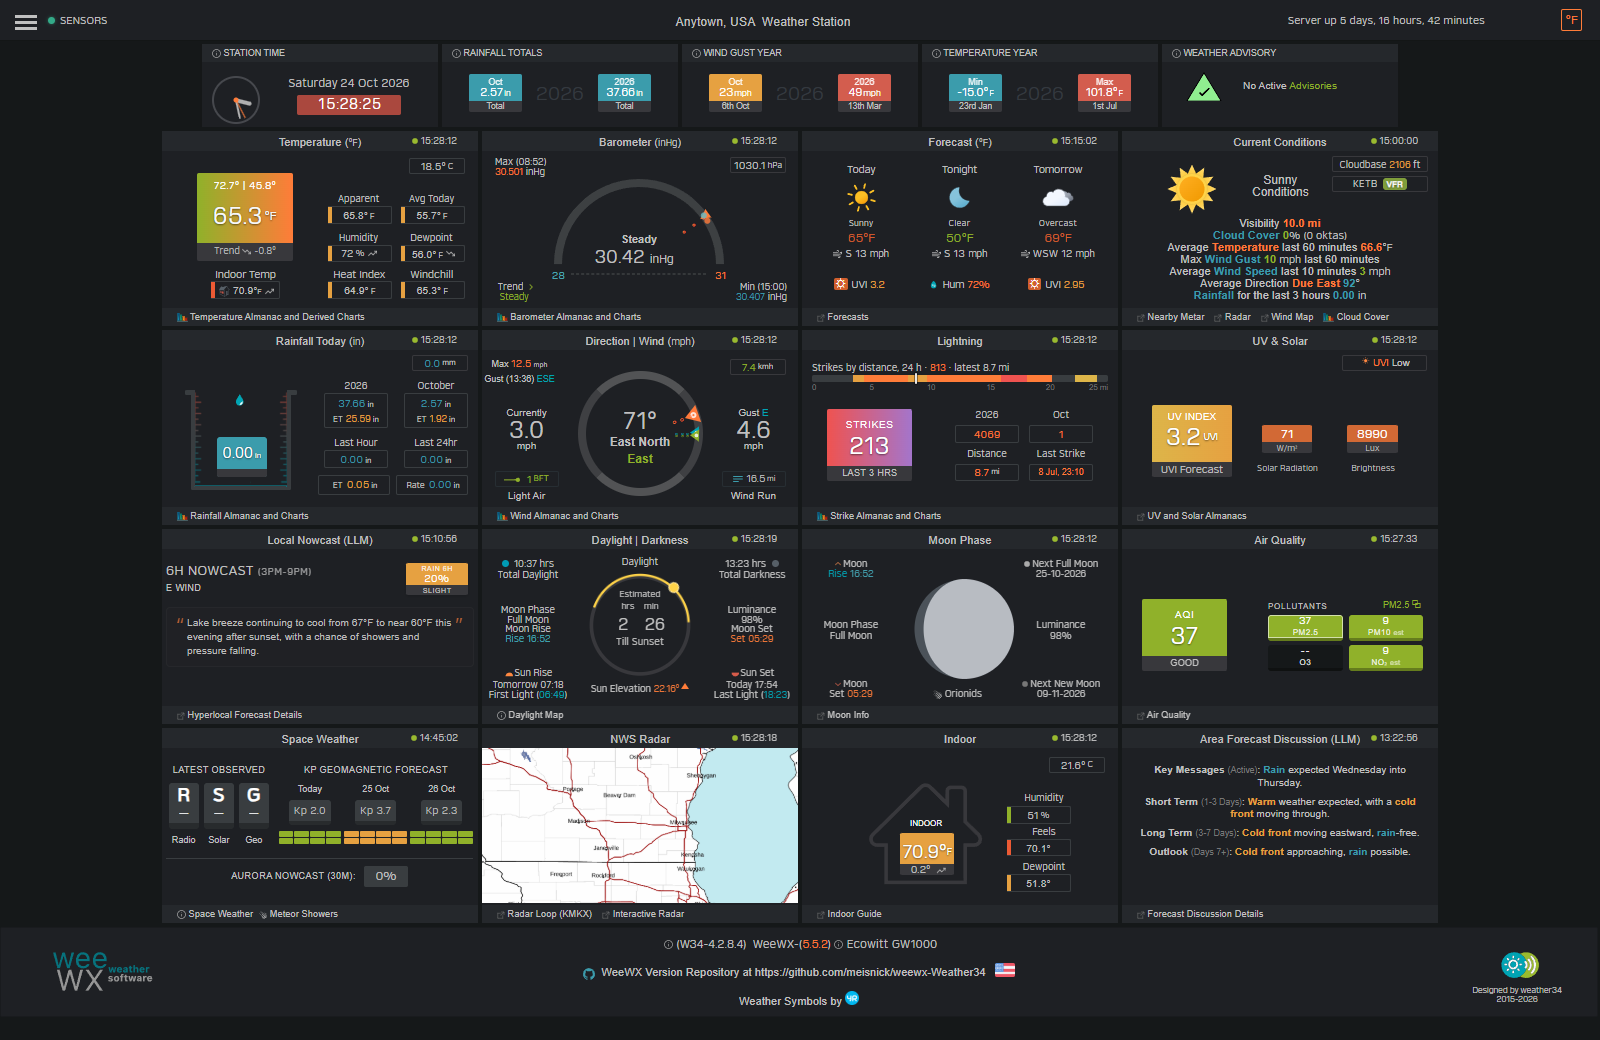
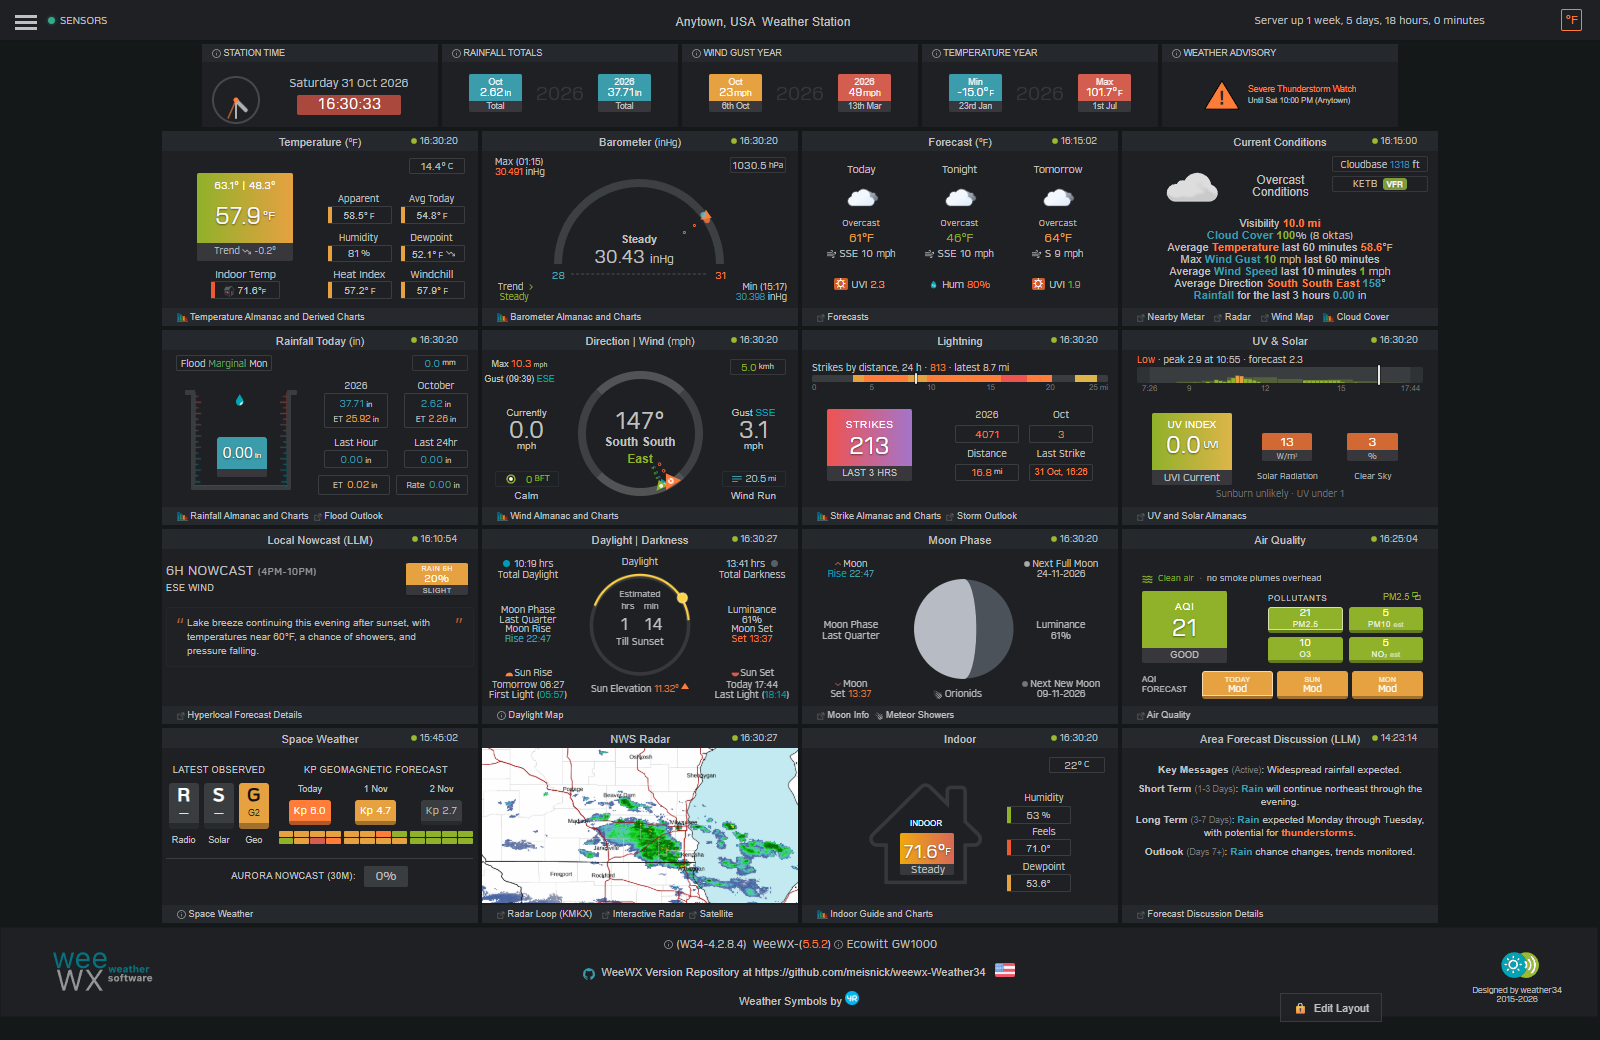
README: new cards (UV & Solar, Storm & flood outlooks, Satellite, AQ cause and outlook), data sources, hero screenshot retaken

diff --git a/README.md b/README.md
@@ -1,8 +1,9 @@
 # Weather34 for WeeWX
 
 **A modern, modular self-hosted weather dashboard skin for [WeeWX](https://weewx.com/) 5.**
-Theme-aware, drag-and-drop customizable, with live radar, air quality, lightning, space
-weather, and AI-summarized forecast discussions — all powered by free, keyless data sources.
+Theme-aware, drag-and-drop customizable, with live radar and satellite, air quality with its cause
+and outlook, lightning, storm and flood outlooks, space weather, and AI-summarized forecast
+discussions — all powered by free, keyless data sources.
 
 ![WeeWX 5.5.2](https://img.shields.io/badge/WeeWX-5.5.2-1f6feb)
 ![PHP 8.4](https://img.shields.io/badge/PHP-8.4-777bb4)
@@ -39,12 +40,24 @@ no paid or deprecated APIs.
   including the settings UI.
 - **📡 Live NWS radar** — polished radar module with real-time station picking, dark-mode
   inversion, zero-flash double-buffered loop transitions, and an interactive pan/zoom popup.
-- **🌫 Air quality** — two-column module with PM2.5 and O₃ pills from the nearest WAQI monitor and
-  PM10 / NO₂ estimates from the Open-Meteo air-quality model (marked *est*), a tabbed details popup,
-  and a historical AQI trend chart.
+- **🌫 Air quality** — PM2.5 and O₃ from the nearest WAQI monitor and PM10 / NO₂ estimates from the
+  Open-Meteo air-quality model (marked *est*), plus *why* the air is the way it is and where it's
+  heading: a cause line (satellite smoke over the station from NOAA's Hazard Mapping System, or the
+  dominant pollutant) and the official AQI forecast for the next four days (AirNow). The popout
+  opens on an Outlook & Cause tab with a 72-hour model AQI chart; the AQI trend chart sits beside it.
+- **☀ UV & Solar** — a sunrise-to-sunset UV strip (measured UV over the hourly forecast, coloured by
+  UV category), a Clear Sky pill (radiation as a share of clear-sky radiation for the sun's height),
+  and minutes to sunburn at the current UV for skin types II to V.
 - **⚡ Lightning** — live strike statistics from the archive database, a 24-hour strike-distance
   strip across the sensor's range (heat-shaded by count, with the latest strike marked), distances
   in the dashboard's units, and a Strike Almanac with yearly and weekly charts.
+- **⛈ Storm & flood outlooks** — a Storm Outlook popout with the Storm Prediction Center's
+  convective outlooks for Days 1–8 at the station (risk level, tornado / wind / hail chances, the
+  nearest risk area, the forecaster's summary) on a map, and a Flood pill on the rainfall card from
+  the Weather Prediction Center's Excessive Rainfall Outlook for the next five days.
+- **🛰 Satellite** — GOES-East loops of the last 1, 2 or 4 hours (GeoColor, clean infrared, air
+  mass) and a 30 m close-up of the station from the latest clear Landsat 8/9 or Sentinel-2 passes;
+  the map keeps your pan and zoom while you change views or passes.
 - **💧 Rain & evapotranspiration** — rain and ET totals side by side on the rainfall card, ET and
   the rain − ET balance in the Rain Almanac, and ET drawn alongside rain in the rain charts.
 - **🩺 Sensor health light** — a top-bar check-engine light for low batteries and sensors that have
@@ -61,8 +74,13 @@ no paid or deprecated APIs.
 - **🔔 Dashboard notifications** — toast alerts for low battery, UV caution, heat exhaustion, wind
   advisory/warning, wind chill, and freezing dewpoint.
 - **🌍 Internationalized** — 15 languages across the cards, popups and charts via `$lang[]`.
-- **🆓 Free & keyless data** — Open-Meteo, NOAA Aviation Weather METAR, and NWS alerts require no
-  API key; only optional extended forecast / AQI use free tokens.
+- **🆓 Free & keyless data** — Open-Meteo, NOAA (METAR, NWS alerts and forecasts, SPC, WPC, space
+  weather, smoke), AirNow and NASA imagery require no API key; only the optional extended forecast
+  and the WAQI monitor use free tokens.
+- **🪶 Easy on the Pi** — cron fetchers on schedules matched to how often each product changes,
+  skipping files that haven't changed; cards and popouts read those saved files, never an outside
+  API; map and satellite tiles load in the visitor's browser straight from their source; yearly
+  charts rebuild hourly; fetcher logs rotate.
 
 ## Branches
 
@@ -108,7 +126,8 @@ cp scripts/w34config.example.py scripts/w34config.py
 ```
 
 Then configure `/etc/weewx/weewx.conf` (start from `weewx5.conf.example`) and set up the cron
-scripts that fetch forecast, METAR, alerts, cloud cover, and air quality. See
+scripts that fetch forecast, METAR, alerts, cloud cover, air quality and its outlook, the storm
+outlook, and the satellite passes. See
 [INSTALLATION.md](INSTALLATION.md) for the complete procedure and
 [TROUBLESHOOTING.md](TROUBLESHOOTING.md) if something looks off.
 
@@ -127,6 +146,13 @@ All supplemental data comes from free, officially maintained sources. Paid and d
 | [NOAA Aviation Weather Center](https://aviationweather.gov/) | METAR current conditions | US Government / Public Domain |
 | [NOAA National Weather Service](https://www.weather.gov/documentation/services-web-api) | Weather alerts, AFD | US Government / Public Domain |
 | [NOAA Space Weather](https://www.swpc.noaa.gov/) | Kp index / OVATION aurora | US Government / Public Domain |
+| [NOAA Storm Prediction Center](https://www.spc.noaa.gov/) | Convective outlooks, Days 1–8 | US Government / Public Domain |
+| [NOAA Weather Prediction Center](https://www.wpc.ncep.noaa.gov/) | Excessive Rainfall Outlook | US Government / Public Domain |
+| [NOAA Hazard Mapping System](https://www.ospo.noaa.gov/products/land/hms.html) | Satellite smoke analysis | US Government / Public Domain |
+| [AirNow](https://www.airnow.gov/) (EPA) | Official AQI forecasts | US Government / Public Domain |
+| [NASA GIBS](https://www.earthdata.nasa.gov/engage/open-data-services-software/earthdata-developer-portal/gibs-api) | GOES-East, Landsat/Sentinel-2 (HLS) and VIIRS imagery | NASA open data, no restrictions |
+| [Natural Earth](https://www.naturalearthdata.com/) | Storm Outlook basemap | Public Domain |
+| [Leaflet](https://leafletjs.com/) | Satellite map | BSD 2-Clause |
 | [IBM The Weather Company](https://www.weather.com/) | Optional extended forecast | Requires API key |
 | [WAQI](https://waqi.info/) | Air quality index | Requires free API token |
 | [WeeWX](https://weewx.com/) | Weather station daemon | [GPL v3](https://github.com/weewx/weewx/blob/master/LICENSE.txt) |
@@ -163,7 +189,8 @@ naming conventions provide the grouping.
 
 | Directory | Contents |
 |---|---|
-| `scripts/` | Python cron scripts (forecast, METAR, NWS alerts, cloud cover) |
+| `scripts/` | Python cron scripts (forecast, METAR, NWS alerts, Kp, air-quality outlook, storm outlook, satellite passes) |
+| `scripts/system/` | Box-level files: permissions hook, Apache snippets, log rotation |
 | `css/` | Stylesheets — `framework.*` + scoped `css/modules/*.css` |
 | `js/` | Vendor JS libraries (jQuery, gauge, lightbox, SortableJS) |
 | `w34highcharts/` | Highcharts subsystem — PHP data endpoints, JS, theme CSS |
@@ -190,8 +217,8 @@ api.weather.gov; cloud cover → Open-Meteo archive. Deprecated-service filename
 **Modular rebuild (the `main` branch)** — CSS-Grid page layout; drag-and-drop dashboard editor
 (SortableJS) with instant save and column controls; theme-aware `framework.*` stylesheets plus
 scoped `css/modules/*.css`; a dynamic loader that pulls only the CSS for active modules; and
-redesigned Air Quality, Lightning (v2), Space Weather, NWS Radar, Forecast Discussion, and Local
-Nowcast modules. Legacy runtime class names were folded into the scoped `.mod-*` system with
+redesigned Air Quality, Lightning (v2), UV & Solar, Space Weather, NWS Radar, Forecast Discussion,
+and Local Nowcast modules; and new Storm Outlook and Satellite popouts. Legacy runtime class names were folded into the scoped `.mod-*` system with
 render-parity gates.
 
 **Hardening & cleanup** — dead earthquake module removed; restored dashboard toast notifications;
